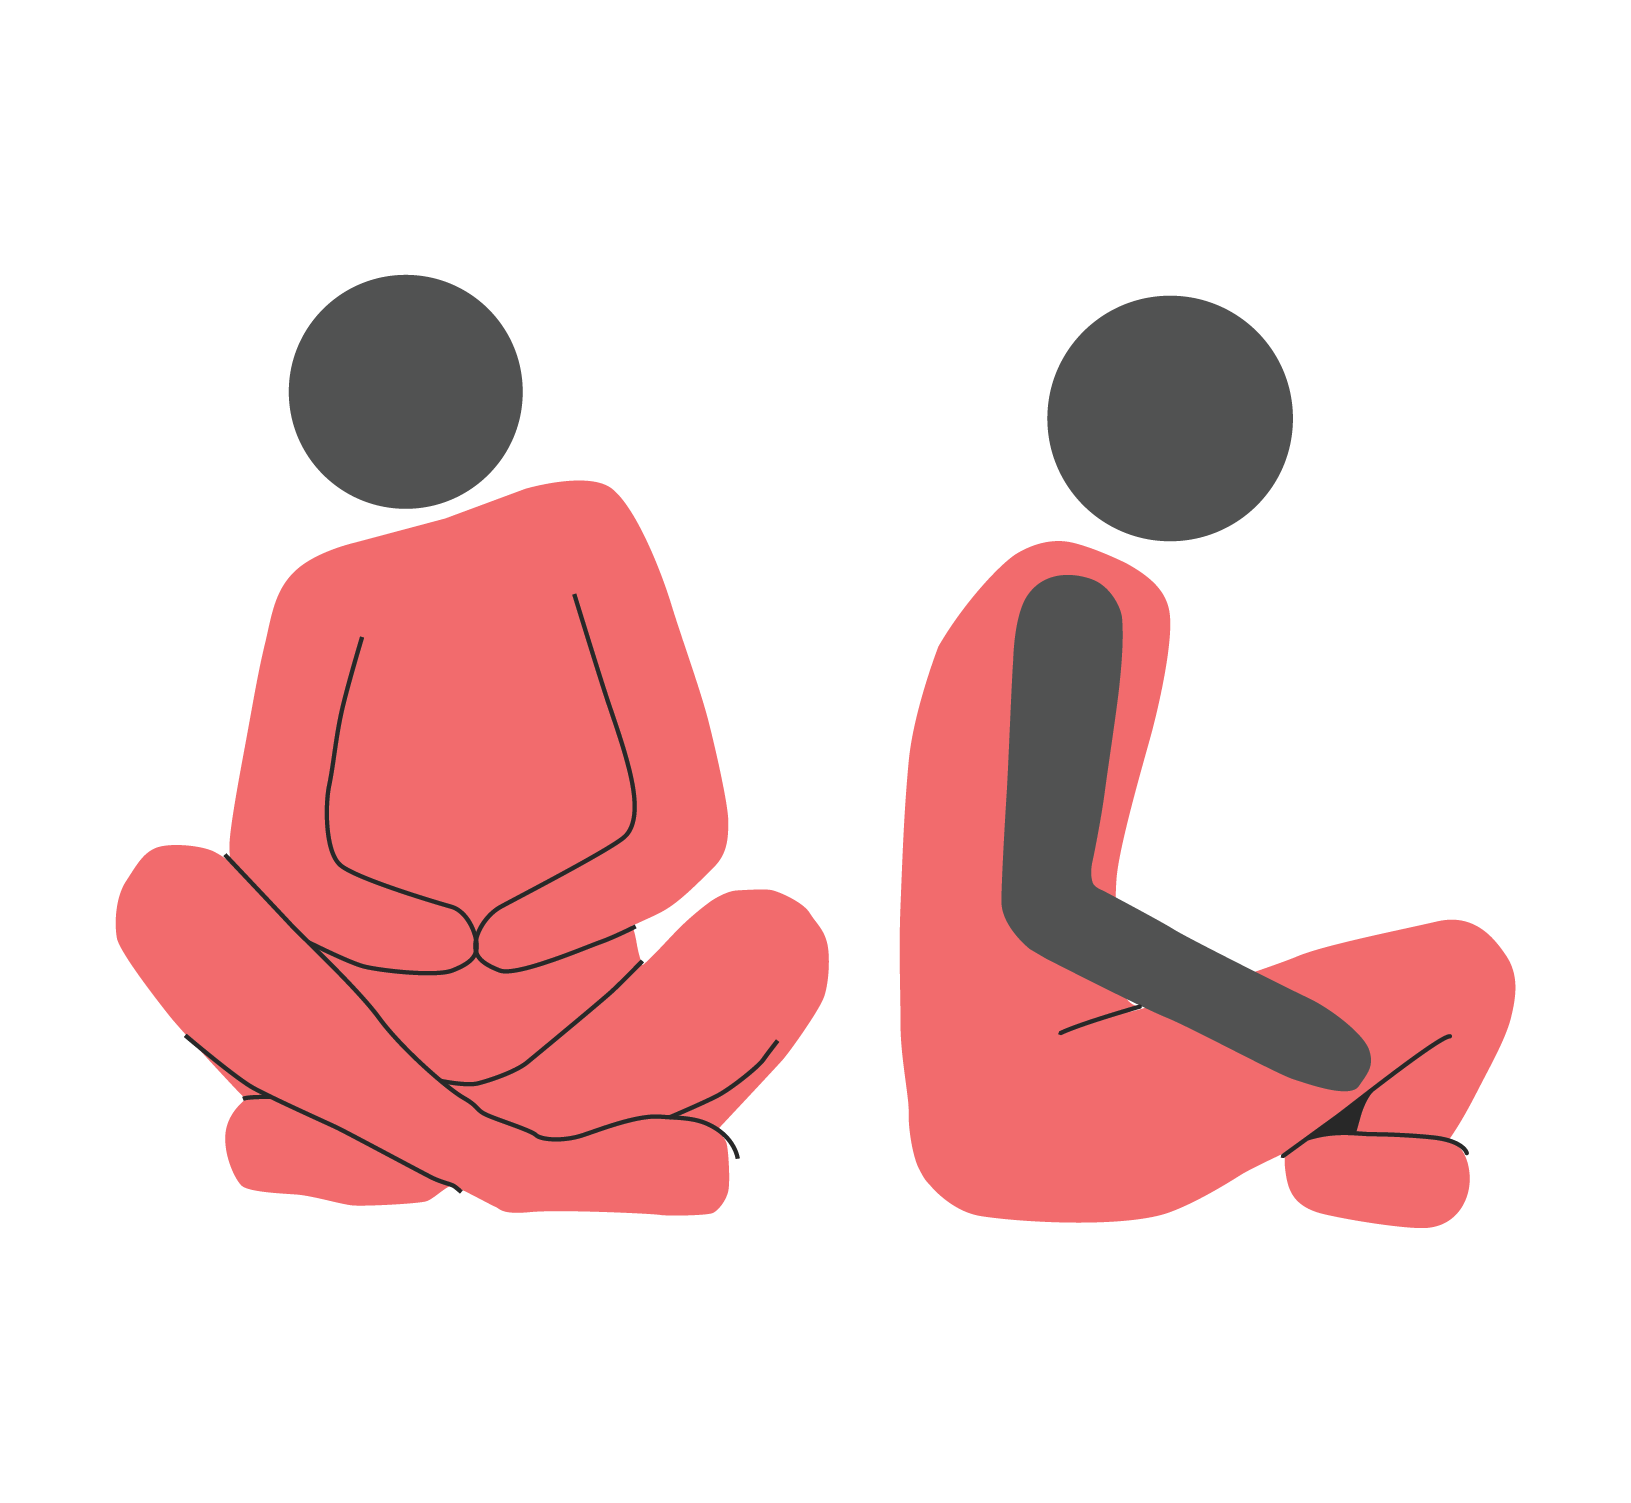
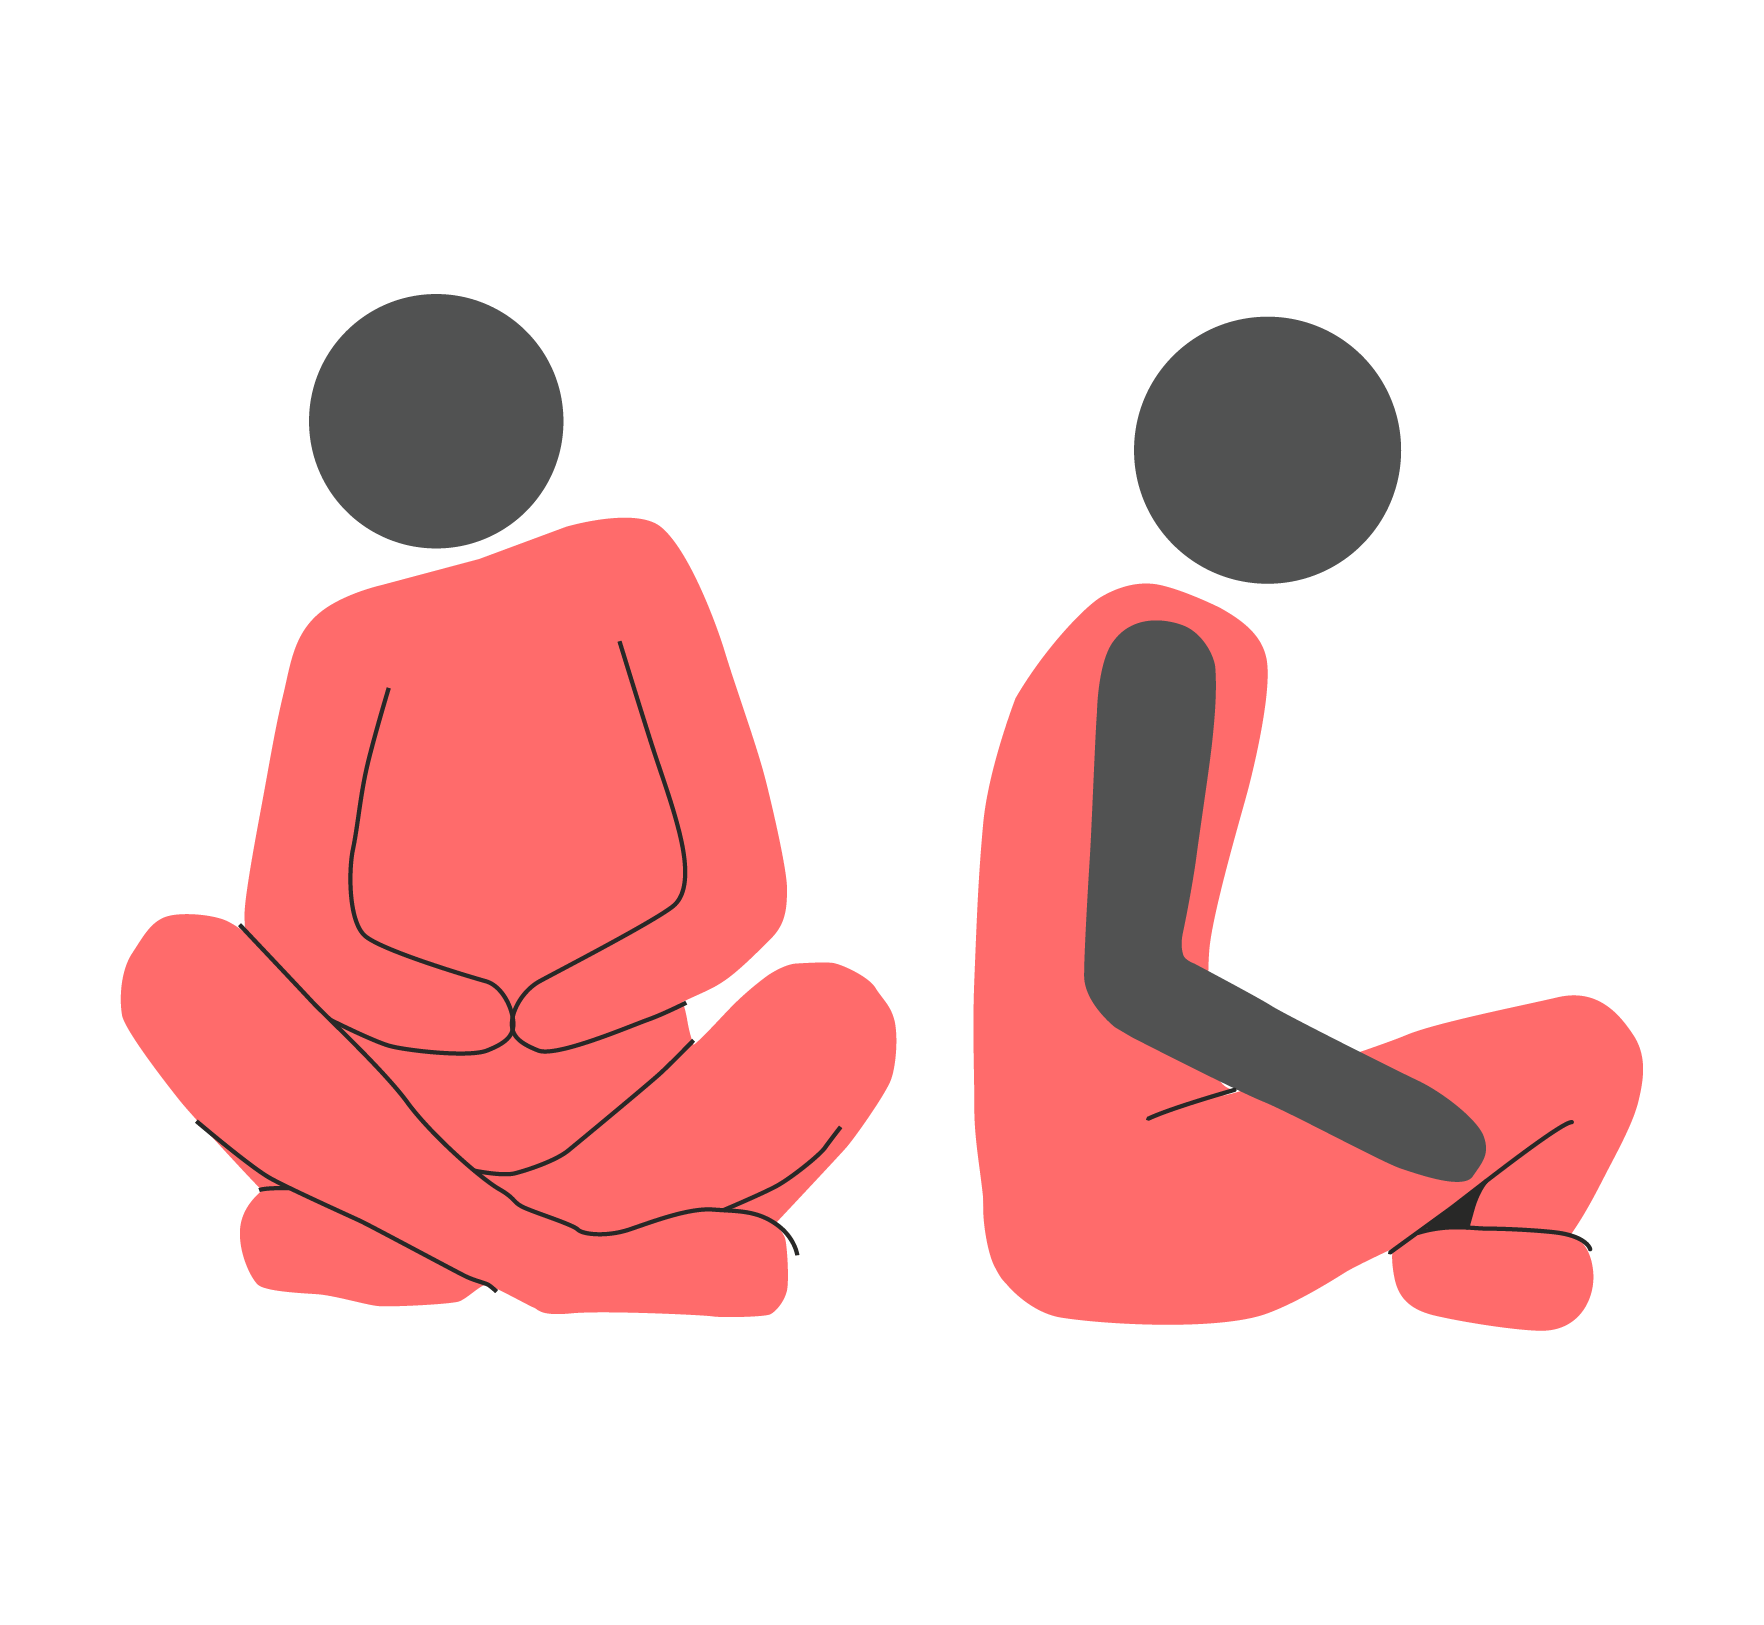
New Pictures with correct colour

diff --git a/lib/today/today_widget.dart b/lib/today/today_widget.dart
@@ -31,7 +31,7 @@ class _TodayWidgetState extends State<TodayWidget> {
 
   //Apple Graph Stuff
   final Random random = Random();
-  int count2 = 0;
+  int count_2 = 0;
   List<AppleGraphData> appleChartData = [];
   bool pressAttention1 = false;
   bool pressAttention2 = false;
@@ -100,8 +100,9 @@ class _TodayWidgetState extends State<TodayWidget> {
                         'assets/images/UI_avatar@2x.png',
                       ),
                     ),
+
                     AutoSizeText(
-                      'Hello, Thomas',
+                      'Hello, Friendo',
                       textAlign: TextAlign.left,
                       style: FlutterFlowTheme.title3.override(
                         fontFamily: 'Poppins',
@@ -331,7 +332,7 @@ class _TodayWidgetState extends State<TodayWidget> {
                                                       appleChartData.clear();
                                                       appleChartData = getAppleChartData();
                                                     }
-                                                    count2++;
+                                                    count_2++;
                                                     setState(() {
                                                       pressAttention1 = true;
                                                       pressAttention2 = false;
@@ -357,14 +358,14 @@ class _TodayWidgetState extends State<TodayWidget> {
                                                     ),
                                                   ),
                                                   onPressed: () {
-                                                    if (count2 == 0) {
+                                                    if (count_2 == 0) {
                                                       appleChartData.clear();
                                                       appleChartData = data2;
                                                     } else {
                                                       appleChartData.clear();
                                                       appleChartData = getAppleChartData();
                                                     }
-                                                    count2++;
+                                                    count_2++;
                                                     setState(() {
                                                       pressAttention1 = false;
                                                       pressAttention2 = true;
@@ -390,14 +391,14 @@ class _TodayWidgetState extends State<TodayWidget> {
                                                     ),
                                                   ),
                                                   onPressed: () {
-                                                    if (count2 == 0) {
+                                                    if (count_2 == 0) {
                                                       appleChartData.clear();
                                                       appleChartData = data2;
                                                     } else {
                                                       appleChartData.clear();
                                                       appleChartData = getAppleChartData();
                                                     }
-                                                    count2++;
+                                                    count_2++;
                                                     setState(() {
                                                       pressAttention1 = false;
                                                       pressAttention2 = false;
